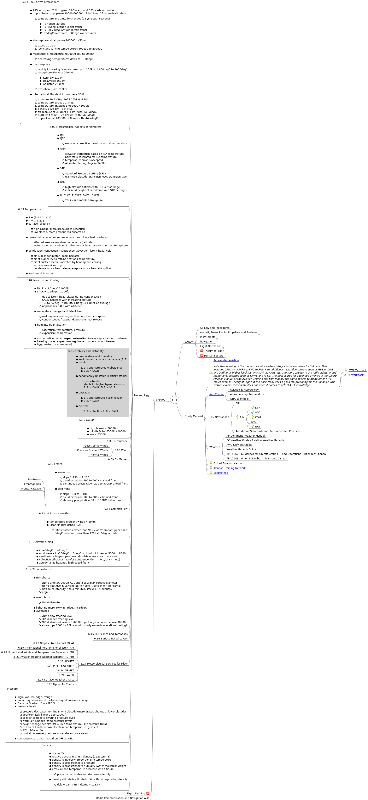
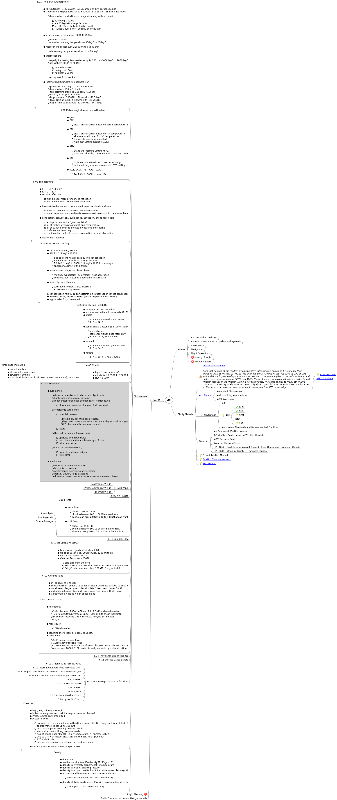
extended ATPL mind map

diff --git a/ATPL/Exam/ATPL.mm b/ATPL/Exam/ATPL.mm
@@ -10480,8 +10480,145 @@
     </ul>
   </body>
 </html></richcontent>
+<node CREATED="1573431683901" ID="ID_1940104592" MODIFIED="1573431813682">
+<richcontent TYPE="NODE"><html>
+  <head>
+    
+  </head>
+  <body>
+    <p>
+      Turbulence Indicating
+    </p>
+    <ul>
+      <li>
+        cumulonimbus
+      </li>
+      <li>
+        altocumulus castellanus
+      </li>
+      <li>
+        towering cumulus
+      </li>
+      <li>
+        cap cloud, lenticular cloud (altocumulus lenticularis), rotor cloud
+      </li>
+    </ul>
+  </body>
+</html>
+</richcontent>
 </node>
-<node CREATED="1573330572405" ID="ID_1665720219" MODIFIED="1573330580236" TEXT="6.07 Turbulence"/>
+</node>
+<node CREATED="1573330572405" ID="ID_1665720219" MODIFIED="1573432297772">
+<richcontent TYPE="NODE"><html>
+  <head>
+    
+  </head>
+  <body>
+    <p>
+      6.07 Turbulence
+    </p>
+    <p>
+      
+    </p>
+    <ul>
+      <li>
+        turbulence
+
+        <ul>
+          <li>
+            disturbs intended attitude but not flight path
+          </li>
+          <li>
+            light, moderate, severe, extreme
+          </li>
+          <li>
+            mechanical turbulence (friction layer, friction level)
+
+            <ul>
+              <li>
+                diurnal and seasonal changes of friction level
+              </li>
+            </ul>
+          </li>
+          <li>
+            orographic turbulence
+
+            <ul>
+              <li>
+                mountain waves
+
+                <ul>
+                  <li>
+                    stable air, absolute peak stability
+                  </li>
+                  <li>
+                    high wind speeds +15knots, within 30deg normal to ridges
+                  </li>
+                  <li>
+                    FD charts and terrain assessment
+                  </li>
+                </ul>
+              </li>
+              <li>
+                rotors
+              </li>
+            </ul>
+          </li>
+          <li>
+            thermal turbulence (convection)
+
+            <ul>
+              <li>
+                updrafts and downdrafts
+              </li>
+              <li>
+                microbursts and macrobursts, gust fronts
+              </li>
+              <li>
+                fallout and virga
+              </li>
+            </ul>
+          </li>
+          <li>
+            clear air turbulence (CAT)
+
+            <ul>
+              <li>
+                upper troughs and ridges
+              </li>
+              <li>
+                jetstreams
+              </li>
+            </ul>
+          </li>
+        </ul>
+      </li>
+      <li>
+        wind shear
+
+        <ul>
+          <li>
+            disturbs intended flight path
+          </li>
+          <li>
+            horizontal or vertical
+          </li>
+          <li>
+            performance decreasing or increasing
+          </li>
+          <li>
+            frontal, trough, ridge passages
+          </li>
+          <li>
+            (low-level) inversions, marked temperature inversion (MTI)
+          </li>
+        </ul>
+      </li>
+    </ul>
+  </body>
+</html>
+</richcontent>
+</node>
 <node CREATED="1573330590146" ID="ID_1075915924" MODIFIED="1573330593647" TEXT="6.08 Wind">
 <node CREATED="1573408934993" ID="ID_1535654758" MODIFIED="1573408940263" TEXT="Geostrophic Winds"/>
 <node CREATED="1573408945303" ID="ID_57683935" MODIFIED="1573408950762" TEXT="Pressure Gradient Winds"/>
@@ -10540,7 +10677,7 @@
 <node CREATED="1573408906409" ID="ID_1552787567" MODIFIED="1573408916592" TEXT="Frontal Passage"/>
 </node>
 <node CREATED="1573330721252" ID="ID_238729032" MODIFIED="1573330729412" TEXT="6.11 Complex Low"/>
-<node CREATED="1573330748611" ID="ID_68412790" MODIFIED="1573331148503">
+<node CREATED="1573330748611" ID="ID_68412790" MODIFIED="1573430952281">
 <richcontent TYPE="NODE"><html>
   <head>
     
@@ -10557,9 +10694,18 @@
         temperature gradient winds &gt; 60kts
       </li>
       <li>
+        up to 1500NM long, 200NM wide, 12000ft thick
+      </li>
+      <li>
+        core within the warm air
+      </li>
+      <li>
         Clear Air Turbulence (CAT)
 
         <ul>
+          <li>
+            cold side from the core
+          </li>
           <li>
             30kts isotachs closer than 90NM on 250mbar upper chart
           </li>
@@ -10570,7 +10716,8 @@
       </li>
     </ul>
   </body>
-</html></richcontent>
+</html>
+</richcontent>
 </node>
 <node CREATED="1573331153527" ID="ID_1872410311" MODIFIED="1573331730986">
 <richcontent TYPE="NODE"><html>
